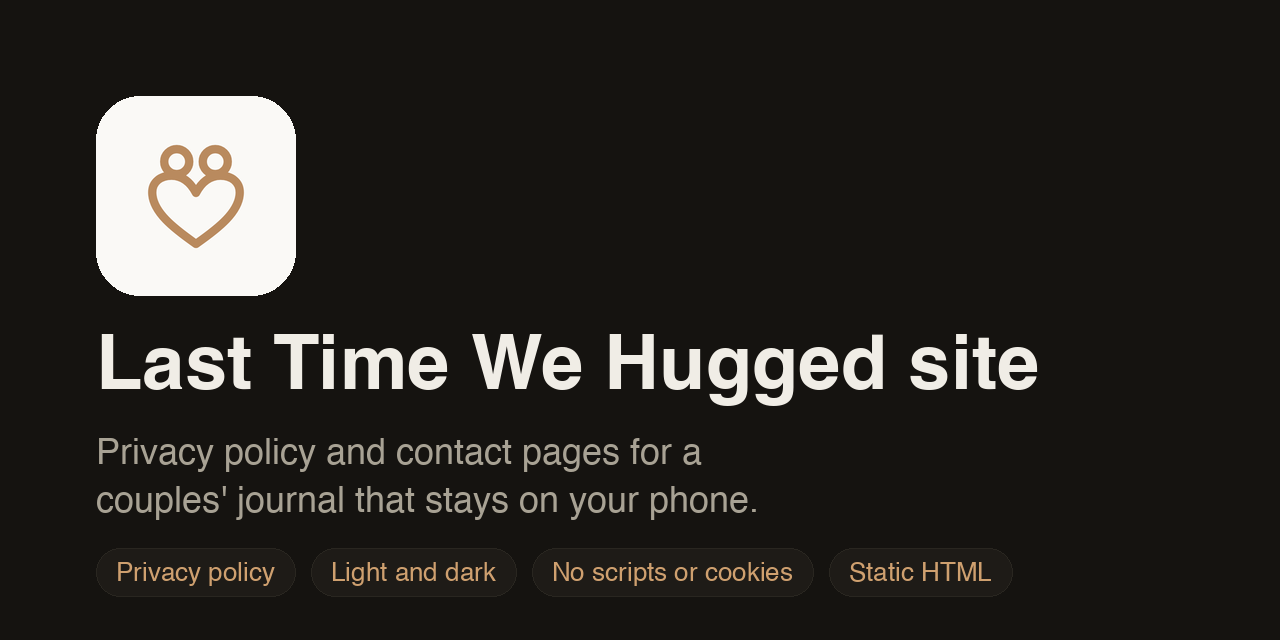
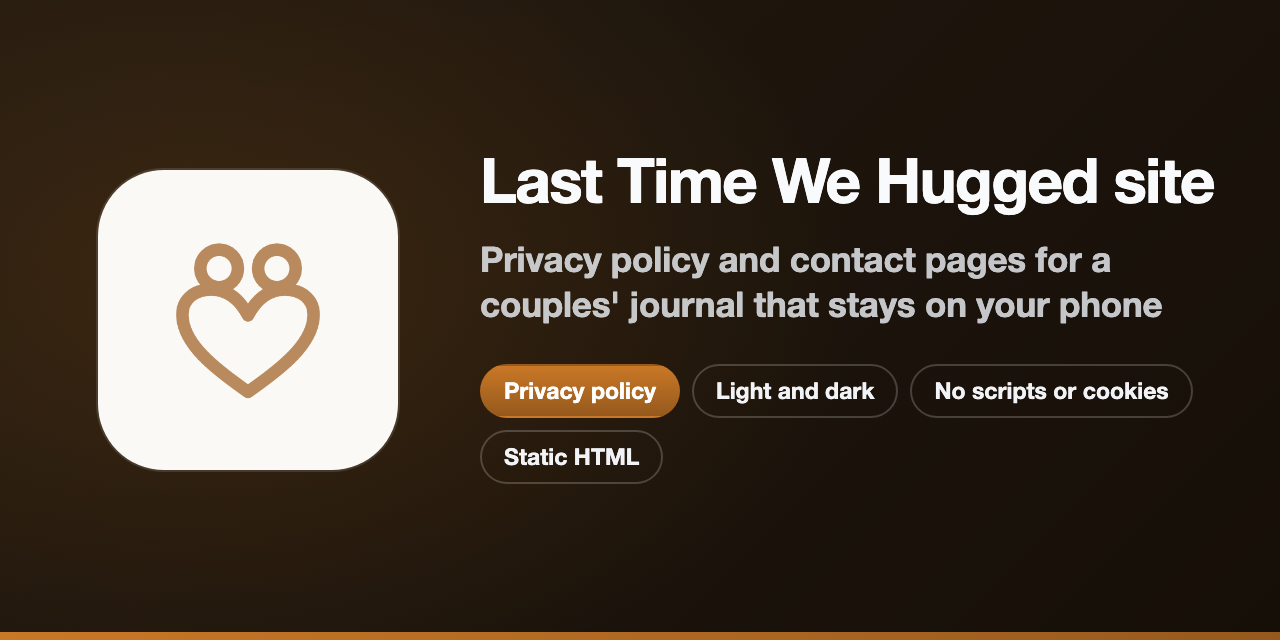
docs: draw the social preview with the shared brand layout
The preview keeps the app's own icon and now uses the shared layout. tools/brand/brand_kit.py replaces the old per-site Pillow script.

diff --git a/tools/brand/brand_kit.py b/tools/brand/brand_kit.py
@@ -1,0 +1,91 @@
+#!/usr/bin/env python3
+"""Draw the 1280x640 social preview in the shared layout: icon tile left, name, tagline,
+3 to 4 chips, a hue stripe along the bottom.
+
+  python3 tools/brand/brand_kit.py social --name NAME --tagline TEXT --chip A --chip B \
+      --icon ICON.png --hue 170 --out docs/assets/social-preview.png
+
+The icon is the project's own (PNG or SVG). Pick --hue from the icon's main colour.
+Needs headless Google Chrome (set CHROME= if it is elsewhere) and Pillow.
+Rendering is deterministic and the PNG carries no metadata.
+"""
+import argparse, colorsys, html, os, pathlib, subprocess, sys, tempfile
+from PIL import Image
+
+CHROME = os.environ.get("CHROME", "/Applications/Google Chrome.app/Contents/MacOS/Google Chrome")
+INK = "#F8FAFC"
+
+# ---- colour -----------------------------------------------------------------
+def _lum(rgb):
+    f = lambda c: c / 12.92 if c <= .03928 else ((c + .055) / 1.055) ** 2.4
+    r, g, b = (f(c) for c in rgb)
+    return .2126 * r + .7152 * g + .0722 * b
+def _hex(h, s, l):
+    r, g, b = colorsys.hls_to_rgb(h / 360, l, s)
+    return "#%02X%02X%02X" % (round(r * 255), round(g * 255), round(b * 255)), (r, g, b)
+def _contrast(rgb):  # against near-white ink
+    return (_lum((.97, .98, .99)) + .05) / (_lum(rgb) + .05)
+def palette(hue):
+    """(top, bottom, mid) hex. Same saturation, lightness 54/40; yellows and greens are
+    darkened just enough that the white glyph keeps 3.2:1 (top) and 4.5:1 (bottom)."""
+    s, lt, lb = .68, .55, .41
+    while _contrast(_hex(hue, s, lt)[1]) < 3.2 and lt > .30: lt -= .01
+    while _contrast(_hex(hue, s, lb)[1]) < 4.5 and lb > .20: lb -= .01
+    lb = min(lb, lt - .12)
+    return _hex(hue, s, lt)[0], _hex(hue, s, lb)[0], _hex(hue, s, (lt + lb) / 2)[0]
+def dark_bg(hue):
+    return _hex(hue, .38, .10)[0], _hex(hue, .45, .06)[0]
+
+# ---- rendering --------------------------------------------------------------
+def render(html_doc, w, h, out, transparent=False):
+    with tempfile.TemporaryDirectory() as td:
+        p = pathlib.Path(td) / "p.html"
+        p.write_text(html_doc)
+        shot = pathlib.Path(td) / "s.png"
+        cmd = [CHROME, "--headless=new", "--disable-gpu", "--hide-scrollbars", "--no-sandbox",
+               "--force-device-scale-factor=1", f"--window-size={w},{h}",
+               "--virtual-time-budget=3000", f"--screenshot={shot}", f"file://{p}"]
+        if transparent: cmd.insert(2, "--default-background-color=00000000")
+        subprocess.run(cmd, check=True, capture_output=True)
+        im = Image.open(shot).convert("RGBA" if transparent else "RGB")
+    # fresh image = no metadata chunks
+    clean = Image.new(im.mode, im.size); clean.paste(im)
+    pathlib.Path(out).parent.mkdir(parents=True, exist_ok=True)
+    clean.save(out, optimize=True)
+    return clean
+
+def make_social(name, tagline, chips, icon_svg_path, hue, out_png):
+    """1280x640, tile left, name, tagline, chips, hue stripe. Same layout for every repo."""
+    top, bot, mid = palette(hue); d1, d2 = dark_bg(hue)
+    chips = list(chips)[:4]
+    chip_html = "".join(f'<span class="c{" f" if i == 0 else ""}">{html.escape(c)}</span>' for i, c in enumerate(chips))
+    doc = f'''<!doctype html><meta charset=utf-8><style>
+*{{box-sizing:border-box;margin:0}}
+body{{width:1280px;height:640px;overflow:hidden;font-family:"Helvetica Neue",Helvetica,Arial,sans-serif;color:{INK};
+ background:radial-gradient(900px 600px at 18% 45%,{mid}33,transparent 70%),linear-gradient(135deg,{d1},{d2});position:relative}}
+.tile{{position:absolute;left:98px;top:170px;width:300px;height:300px;border-radius:22%;box-shadow:0 0 0 2px #ffffff1f}}
+.txt{{position:absolute;left:480px;top:0;width:740px;height:632px;display:flex;flex-direction:column;justify-content:center}}
+h1{{font-weight:800;letter-spacing:-.025em;line-height:1.02;white-space:nowrap;font-size:96px;margin-bottom:26px}}
+h1.wrap{{white-space:normal;font-size:68px;overflow-wrap:anywhere}}
+p{{font-size:35px;line-height:1.28;font-weight:600;color:#E3E6EBd9;margin-bottom:38px;letter-spacing:-.005em}}
+.chips{{display:flex;gap:12px;flex-wrap:wrap}}
+.c{{font-weight:700;font-size:23px;padding:11px 22px;border-radius:99px;border:2px solid #ffffff33;color:#F1F3F6}}
+.c.f{{background:linear-gradient(180deg,{top},{bot});border-color:transparent;color:#fff}}
+.bar{{position:absolute;left:0;right:0;bottom:0;height:8px;background:linear-gradient(90deg,{top},{bot})}}
+</style><img class=tile src="file://{pathlib.Path(icon_svg_path).resolve()}">
+<div class=txt><h1 id=n>{html.escape(name)}</h1><p>{html.escape(tagline)}</p><div class=chips>{chip_html}</div></div><div class=bar></div>
+<script>const h=document.getElementById('n');let s=96;while(h.scrollWidth>740&&s>60){{s-=2;h.style.fontSize=s+'px'}}
+if(h.scrollWidth>740){{h.className='wrap';h.innerHTML=h.textContent.replace(/-/g,'-<wbr>')}}</script>'''
+    return render(doc, 1280, 640, out_png)
+
+def main(argv=None):
+    ap = argparse.ArgumentParser(description=__doc__, formatter_class=argparse.RawDescriptionHelpFormatter)
+    sub = ap.add_subparsers(dest="cmd", required=True)
+    b = sub.add_parser("social"); b.add_argument("--name", required=True); b.add_argument("--tagline", required=True)
+    b.add_argument("--chip", action="append", default=[]); b.add_argument("--icon", required=True)
+    b.add_argument("--hue", type=int, required=True); b.add_argument("--out", default="docs/assets/social-preview.png")
+    n = ap.parse_args(argv)
+    make_social(n.name, n.tagline, n.chip, n.icon, n.hue, n.out)
+
+if __name__ == "__main__":
+    sys.exit(main())

diff --git a/README.md b/README.md
@@ -140,7 +140,7 @@ last-time-we-hugged-site/
 ├── assets/                # 🎨 site.css and mark.svg (also the favicon)
 ├── docs/                  # 📚 setup, how it works, FAQ, troubleshooting
 │   └── assets/            # 🖼 diagram, screenshots, brand icon, social preview
-├── tools/                 # 🔧 check_site.py, gen_diagram.py, screenshots/
+├── tools/                 # 🔧 check_site.py, gen_diagram.py, brand/, screenshots/
 ├── .github/workflows/     # 🤖 ci.yml runs make check
 ├── Makefile               # ⚙ check, serve, diagram, screenshots, social
 ├── llms.txt               # 🤖 the site in one plain-text page for search tools

diff --git a/docs/setup.md b/docs/setup.md
@@ -54,9 +54,9 @@ the live page afterwards at
 
 ```bash
 make screenshots   # docs/assets/screenshots/
-make social        # docs/assets/brand/icon.png and social-preview.png
+make social        # docs/assets/social-preview.png, drawn by tools/brand/brand_kit.py from the site icon
 make diagram       # docs/assets/architecture-{light,dark}.svg
 ```
 
-The first two need network access once to install Playwright and download
+`make screenshots` needs network access once to install Playwright and download
 Chromium. The contact page is never photographed: it shows the support address.
